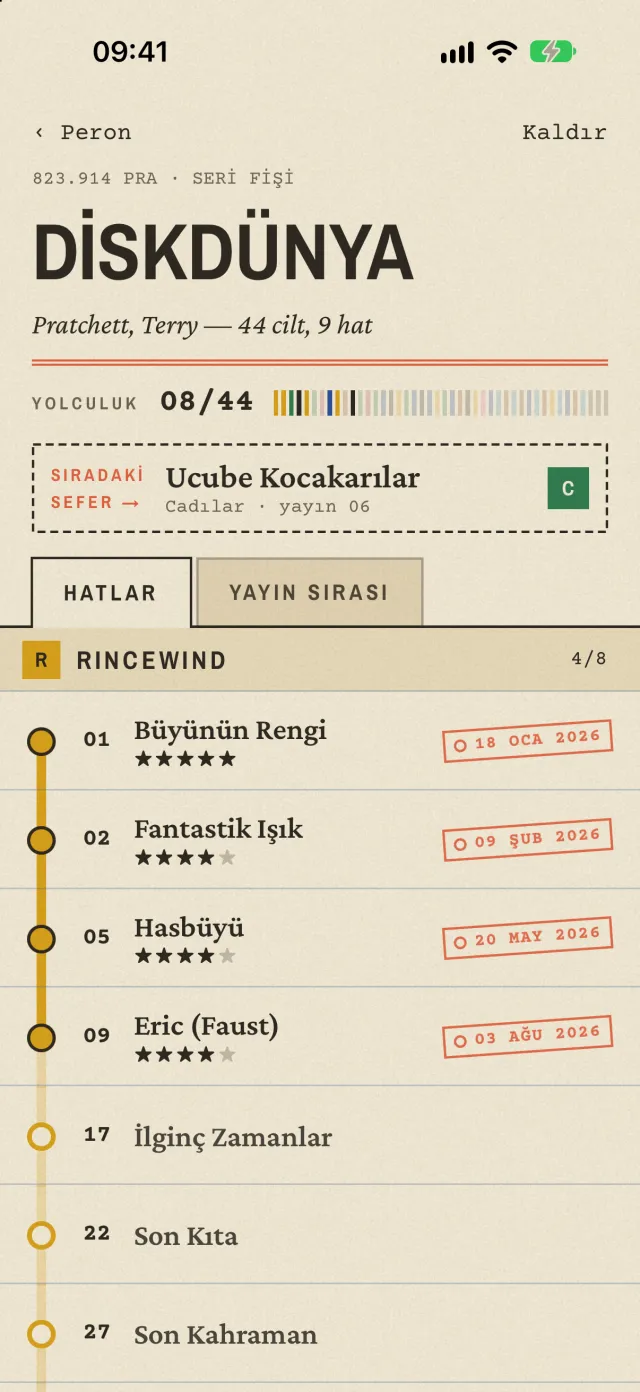
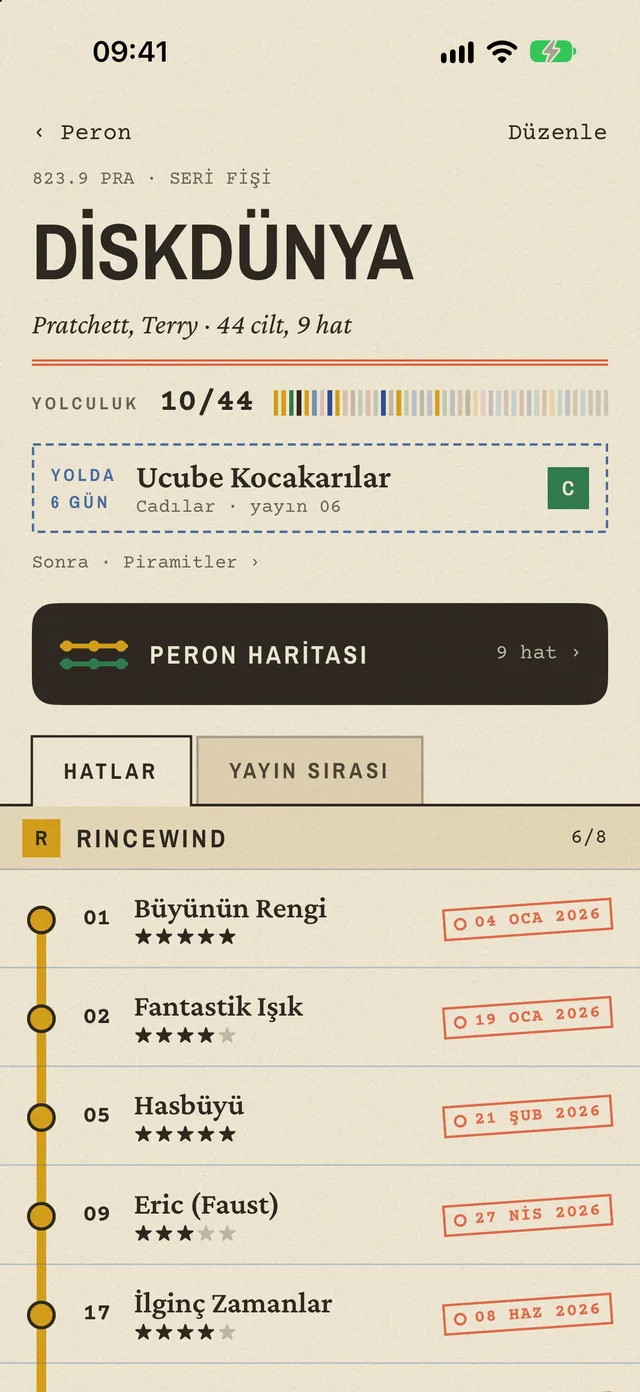
Yeni özellikler: yolda, biletin arkası, paylaş, hedef, kalkış panosu; yeni ekranlar; gizlilikte notlar ve alıntılar

diff --git a/index.html b/index.html
@@ -26,11 +26,11 @@
 <link rel="preconnect" href="https://fonts.gstatic.com" crossorigin>
 <link rel="stylesheet" href="https://fonts.googleapis.com/css2?family=Crimson+Pro:ital,wght@0,400;0,600;0,700;0,800;1,400&display=swap">
 <style>
-  :root { --paper:#f4ecd8; --karton:#e3d5b2; --sheet:#fbf6e9; --ink:#2b2721; --ink2:#5e5547; --hair:#cdbf9f; --coral:#e2603f; --onink:#f4ecd8; --l:block; --d:none; color-scheme: light; }
+  :root { --paper:#f4ecd8; --karton:#e3d5b2; --sheet:#fbf6e9; --ink:#2b2721; --ink2:#5e5547; --hair:#cdbf9f; --coral:#e2603f; --mavi:#466ea5; --onink:#f4ecd8; --l:block; --d:none; color-scheme: light; }
   @media (prefers-color-scheme: dark) {
-    :root:not([data-theme="light"]) { --paper:#1d1b17; --karton:#2c2923; --sheet:#25231e; --ink:#e8dfca; --ink2:#a89f8b; --hair:#3e3a32; --coral:#e8694a; --onink:#1d1b17; --l:none; --d:block; color-scheme: dark; }
+    :root:not([data-theme="light"]) { --paper:#1d1b17; --karton:#2c2923; --sheet:#25231e; --ink:#e8dfca; --ink2:#a89f8b; --hair:#3e3a32; --coral:#e8694a; --mavi:#8caad2; --onink:#1d1b17; --l:none; --d:block; color-scheme: dark; }
   }
-  :root[data-theme="dark"] { --paper:#1d1b17; --karton:#2c2923; --sheet:#25231e; --ink:#e8dfca; --ink2:#a89f8b; --hair:#3e3a32; --coral:#e8694a; --onink:#1d1b17; --l:none; --d:block; color-scheme: dark; }
+  :root[data-theme="dark"] { --paper:#1d1b17; --karton:#2c2923; --sheet:#25231e; --ink:#e8dfca; --ink2:#a89f8b; --hair:#3e3a32; --coral:#e8694a; --mavi:#8caad2; --onink:#1d1b17; --l:none; --d:block; color-scheme: dark; }
 
   * { box-sizing: border-box; }
   html { -webkit-text-size-adjust: 100%; scroll-behavior: smooth; }
@@ -138,6 +138,7 @@
   .fis p { margin: 0; font-size: 18px; line-height: 1.45; color: var(--ink2); text-wrap: pretty; }
   .renkler { display: flex; gap: 3px; padding-top: 4px; }
   .renkler span { width: 16px; height: 8px; background: var(--hair); }
+  .damga-k.mavi { color: var(--mavi); border-color: var(--mavi); }
   .damga-k { align-self: flex-start; font-weight: 700; font-size: 13px; letter-spacing: .08em; color: var(--coral); border: 1.5px solid var(--coral); padding: 3px 8px; transform: rotate(-3deg); margin-top: 4px; }
 
   /* 04 Ekranlar */
@@ -215,8 +216,8 @@
         </div>
         <div class="tel-sar">
           <div class="tel"><i></i><i></i><i></i><div class="ekran">
-            <img class="l" src="img/kart-light.webp" alt="Zımbalı bilet: varış günü ve puan" width="640" height="1392">
-            <img class="d" src="img/kart-dark.webp" alt="Zımbalı bilet, gece baskısı" width="640" height="1392">
+            <img class="l" src="img/kart-light.webp" alt="Yoldaki bilet: kalkış günü ve YOLDA damgası" width="640" height="1392">
+            <img class="d" src="img/kart-dark.webp" alt="Yoldaki bilet, gece baskısı" width="640" height="1392">
           </div></div>
         </div>
       </div>
@@ -237,21 +238,21 @@
         <li>
           <div class="hat" aria-hidden="true"><b></b><i></i></div>
           <span class="kod">DURAK 02</span>
-          <h3>Sıradaki sefer</h3>
-          <p>Peron sırayı bilir. Hattın sıradaki durağı seri fişinin en üstünde seni bekler.</p>
+          <h3>Yola çık</h3>
+          <p>Okumaya başlayınca biletine kalkış günü basılır. Peron kaç gündür yolda olduğunu sayar. Sıradaki durak seri fişinin en üstünde bekler.</p>
         </li>
         <li>
           <div class="hat" aria-hidden="true"><b class="bos"></b></div>
           <span class="kod">DURAK 03 · VARIŞ</span>
           <h3>Biletini zımbala</h3>
-          <p>Bitirince biletini zımbala. Varış günün ve puanın bilete basılır. Yıl damgasına bir sefer eklenir.</p>
+          <p>Bitirince biletini zımbala. Varış günün, puanın ve yolculuğun kaç gün sürdüğü bilete basılır. Yıl damgasına bir sefer eklenir.</p>
         </li>
       </ol>
     </div>
   </section>
 
   <section id="neler" data-durak="NELER VAR">
-    <div class="serit"><span class="isaret" data-isaret></span><span class="no">03</span><span class="ad">NELER VAR</span><span class="veri">7 fiş</span></div>
+    <div class="serit"><span class="isaret" data-isaret></span><span class="no">03</span><span class="ad">NELER VAR</span><span class="veri">10 fiş</span></div>
     <div class="ic">
       <h2>Yolculuk boyunca yanında.</h2>
       <div class="fisler">
@@ -265,23 +266,36 @@
           <p>Seriye bağlı olmayan kitaplar bu çekmecede durur. Aynı yazardan iki kitap okuyunca o yazarın hattı açılır.</p>
         </div></div>
         <div class="fis"><span class="kod">823.03</span><div>
-          <h3>Zımbalı bilet</h3>
-          <p>Bitirdiğin her kitabın bir bileti olur. Bilette varış günün ve beş yıldızlık puanın yazar.</p>
-          <span class="damga-k" aria-hidden="true">○ 20 MAY 2026</span>
+          <h3>Yolda ve zımbalı bilet</h3>
+          <p>Şu an okuduğun kitaplar yolda. Ana ekranda bir deste olarak durur. Bitirince biletini zımbalarsın, varış günün ve puanın bilete yazılır.</p>
+          <span class="damga-k mavi" aria-hidden="true">YOLDA · 08 EKİ 2026</span>
         </div></div>
         <div class="fis"><span class="kod">823.04</span><div>
-          <h3>Yıl damgası</h3>
-          <p>Bu yıl kaç sefer yaptığını ana ekrandaki kırmızı damga söyler.</p>
+          <h3>Biletin arkası</h3>
+          <p>Bileti çevir. Arkasına kitaptan sevdiğin cümleleri ve kendi notunu yaz. Her kitaba beş alıntı ve bir not sığar.</p>
         </div></div>
         <div class="fis"><span class="kod">823.05</span><div>
+          <h3>Bileti paylaş</h3>
+          <p>Biletini Instagram hikâyesi ya da gönderi boyunda bir görsel yap. İstersen bir alıntın da bilete eklenir.</p>
+        </div></div>
+        <div class="fis"><span class="kod">823.06</span><div>
+          <h3>Yıl damgası ve hedef</h3>
+          <p>Bu yıl kaç sefer yaptığını ana ekrandaki kırmızı damga söyler. Yıllık hedef koyarsan ne kadar kaldığını da gösterir.</p>
+          <span class="damga-k" aria-hidden="true">28 / 30 SEFER</span>
+        </div></div>
+        <div class="fis"><span class="kod">823.07</span><div>
+          <h3>Kalkış panosu</h3>
+          <p>Yılın okumaları gar panosu gibi dönen harflerle dolar. Aylara ve türlere göre seferler, ortalama yolculuk, en uzun yolculuk.</p>
+        </div></div>
+        <div class="fis"><span class="kod">823.08</span><div>
           <h3>Romandan şiire, çizgi romandan mangaya</h3>
           <p>Roman, öykü, şiir, deneme, tiyatro, manga, çizgi roman, anı ve kurgu dışı. Hepsi aynı listede.</p>
         </div></div>
-        <div class="fis"><span class="kod">823.06</span><div>
+        <div class="fis"><span class="kod">823.09</span><div>
           <h3>Kayıtlar hesabında</h3>
-          <p>Apple ya da e-postayla giriş yap. Telefonun değişse de biletlerin kaybolmaz. Hesabını istediğin an uygulamadan silebilirsin.</p>
+          <p>Üye olmadan da kullanabilirsin. Apple ya da e-postayla giriş yaparsan telefonun değişse de biletlerin kaybolmaz. Hesabını istediğin an uygulamadan silebilirsin.</p>
         </div></div>
-        <div class="fis"><span class="kod">823.07</span><div>
+        <div class="fis"><span class="kod">823.10</span><div>
           <h3>Gece baskısı</h3>
           <p>Karanlık modda fişler koyu kartona döner, mürekkep krem rengi olur. Gece gözünü yormaz.</p>
         </div></div>
@@ -290,7 +304,7 @@
   </section>
 
   <section id="ekranlar" data-durak="EKRANLAR">
-    <div class="serit"><span class="isaret" data-isaret></span><span class="no">04</span><span class="ad">EKRANLAR</span><span class="veri">5 ekran</span></div>
+    <div class="serit"><span class="isaret" data-isaret></span><span class="no">04</span><span class="ad">EKRANLAR</span><span class="veri">8 ekran</span></div>
     <div class="ic">
       <div class="ekr-bas">
         <h2>Peronun içinden.</h2>
@@ -301,25 +315,37 @@
       </div>
       <div class="galeri">
         <figure><div class="tel"><div class="ekran">
-          <img class="l" src="img/seri-light.webp" alt="Seriler" loading="lazy" width="640" height="1392">
-          <img class="d" src="img/seri-dark.webp" alt="Seriler, gece baskısı" loading="lazy" width="640" height="1392">
+          <img class="l" src="img/seri-light.webp" alt="Ana ekran: yıl damgası, şu an yoldaki kitaplar ve seriler" loading="lazy" width="640" height="1392">
+          <img class="d" src="img/seri-dark.webp" alt="Ana ekran: yıl damgası, şu an yoldaki kitaplar ve seriler, gece baskısı" loading="lazy" width="640" height="1392">
         </div></div><figcaption><span>01</span><b>Seriler ve yıl damgası</b></figcaption></figure>
         <figure><div class="tel"><div class="ekran">
-          <img class="l" src="img/detay-light.webp" alt="Seri fişi, hatlar" loading="lazy" width="640" height="1392">
-          <img class="d" src="img/detay-dark.webp" alt="Seri fişi, hatlar, gece baskısı" loading="lazy" width="640" height="1392">
+          <img class="l" src="img/detay-light.webp" alt="Seri fişi: yoldaki cilt ve hatlar" loading="lazy" width="640" height="1392">
+          <img class="d" src="img/detay-dark.webp" alt="Seri fişi: yoldaki cilt ve hatlar, gece baskısı" loading="lazy" width="640" height="1392">
         </div></div><figcaption><span>02</span><b>Seri fişi ve hatlar</b></figcaption></figure>
         <figure><div class="tel"><div class="ekran">
-          <img class="l" src="img/yayin-light.webp" alt="Yayın sırası" loading="lazy" width="640" height="1392">
-          <img class="d" src="img/yayin-dark.webp" alt="Yayın sırası, gece baskısı" loading="lazy" width="640" height="1392">
-        </div></div><figcaption><span>03</span><b>Yayın sırası</b></figcaption></figure>
+          <img class="l" src="img/harita-light.webp" alt="Peron haritası: serinin hatları metro şeması gibi" loading="lazy" width="640" height="1392">
+          <img class="d" src="img/harita-dark.webp" alt="Peron haritası: serinin hatları metro şeması gibi, gece baskısı" loading="lazy" width="640" height="1392">
+        </div></div><figcaption><span>03</span><b>Peron haritası</b></figcaption></figure>
         <figure><div class="tel"><div class="ekran">
-          <img class="l" src="img/kart-light.webp" alt="Zımbalı bilet" loading="lazy" width="640" height="1392">
-          <img class="d" src="img/kart-dark.webp" alt="Zımbalı bilet, gece baskısı" loading="lazy" width="640" height="1392">
-        </div></div><figcaption><span>04</span><b>Zımbalı bilet</b></figcaption></figure>
+          <img class="l" src="img/kart-light.webp" alt="Bilet: kalkış günü ve mavi YOLDA damgası" loading="lazy" width="640" height="1392">
+          <img class="d" src="img/kart-dark.webp" alt="Bilet: kalkış günü ve mavi YOLDA damgası, gece baskısı" loading="lazy" width="640" height="1392">
+        </div></div><figcaption><span>04</span><b>Yoldaki bilet</b></figcaption></figure>
         <figure><div class="tel"><div class="ekran">
-          <img class="l" src="img/tek-light.webp" alt="Tek kitaplar" loading="lazy" width="640" height="1392">
-          <img class="d" src="img/tek-dark.webp" alt="Tek kitaplar, gece baskısı" loading="lazy" width="640" height="1392">
-        </div></div><figcaption><span>05</span><b>Tek kitaplar çekmecesi</b></figcaption></figure>
+          <img class="l" src="img/arka-light.webp" alt="Biletin arkası: not" loading="lazy" width="640" height="1392">
+          <img class="d" src="img/arka-dark.webp" alt="Biletin arkası: not, gece baskısı" loading="lazy" width="640" height="1392">
+        </div></div><figcaption><span>05</span><b>Biletin arkası</b></figcaption></figure>
+        <figure><div class="tel"><div class="ekran">
+          <img class="l" src="img/paylas-light.webp" alt="Bileti paylaş: hikâye görseli" loading="lazy" width="640" height="1392">
+          <img class="d" src="img/paylas-dark.webp" alt="Bileti paylaş: hikâye görseli, gece baskısı" loading="lazy" width="640" height="1392">
+        </div></div><figcaption><span>06</span><b>Bileti paylaş</b></figcaption></figure>
+        <figure><div class="tel"><div class="ekran">
+          <img class="l" src="img/pano-light.webp" alt="Kalkış panosu: yılın seferleri dönen harflerle" loading="lazy" width="640" height="1392">
+          <img class="d" src="img/pano-dark.webp" alt="Kalkış panosu: yılın seferleri dönen harflerle, gece baskısı" loading="lazy" width="640" height="1392">
+        </div></div><figcaption><span>07</span><b>Kalkış panosu</b></figcaption></figure>
+        <figure><div class="tel"><div class="ekran">
+          <img class="l" src="img/tek-light.webp" alt="Tek kitaplar çekmecesi" loading="lazy" width="640" height="1392">
+          <img class="d" src="img/tek-dark.webp" alt="Tek kitaplar çekmecesi, gece baskısı" loading="lazy" width="640" height="1392">
+        </div></div><figcaption><span>08</span><b>Tek kitaplar çekmecesi</b></figcaption></figure>
       </div>
     </div>
   </section>

diff --git a/gizlilik/index.html b/gizlilik/index.html
@@ -65,7 +65,7 @@
   <div class="wrap"><div class="cift"></div></div>
 </header>
 <main class="wrap">
-  <div class="serit"><span class="no">§</span><span class="ad">GİZLİLİK</span><span class="veri">13.10.2026</span></div>
+  <div class="serit"><span class="no">§</span><span class="ad">GİZLİLİK</span><span class="veri">14.10.2026</span></div>
   <h1>Gizlilik politikası</h1>
   <div class="cift m"></div>
   <p class="giris">Peron senin okuma kayıtlarını tutar. Bunun için gereken en az bilgiyi alır. Reklam göstermez, seni izlemez, bilgilerini kimseye satmaz.</p>
@@ -79,13 +79,14 @@
     <ul>
       <li><b>E-posta adresin.</b> Giriş yapman ve şifreni yenileyebilmen için.</li>
       <li><b>Adın.</b> Yolcu kartında görünmesi için. Yazmak zorunda değilsin.</li>
-      <li><b>Okuma kayıtların.</b> Eklediğin seriler, kitaplar, hatlar, varış tarihleri ve puanlar.</li>
+      <li><b>Okuma kayıtların.</b> Eklediğin seriler, kitaplar, hatlar, kalkış ve varış tarihleri, puanlar, yıllık hedefin, biletlerin arkasına yazdığın alıntılar ve notlar.</li>
     </ul>
     <p>Apple ile giriş yaparsan Apple’ın bize verdiği ad ve e-postayı alırız. Apple’da e-postanı gizlemeyi seçtiysen gerçek adresini hiç görmeyiz.</p>
   </div></section>
   <section><span class="kod">03</span><div>
     <h2>Almadığımız bilgiler</h2>
     <p>Konumunu, rehberini, fotoğraflarını ya da başka uygulamalardaki bilgilerini almayız. Reklam, izleme ya da kullanım ölçümü aracı kullanmayız.</p>
+    <p>Bir bileti paylaştığında görseli telefonunda hazırlarız. Görsel bize gelmez. Fotoğraflar’a kaydetmeyi seçersen Peron yalnızca o görseli ekler, fotoğraflarını göremez.</p>
   </div></section>
   <section><span class="kod">04</span><div>
     <h2>Üye olmadan kullanırsan</h2>
